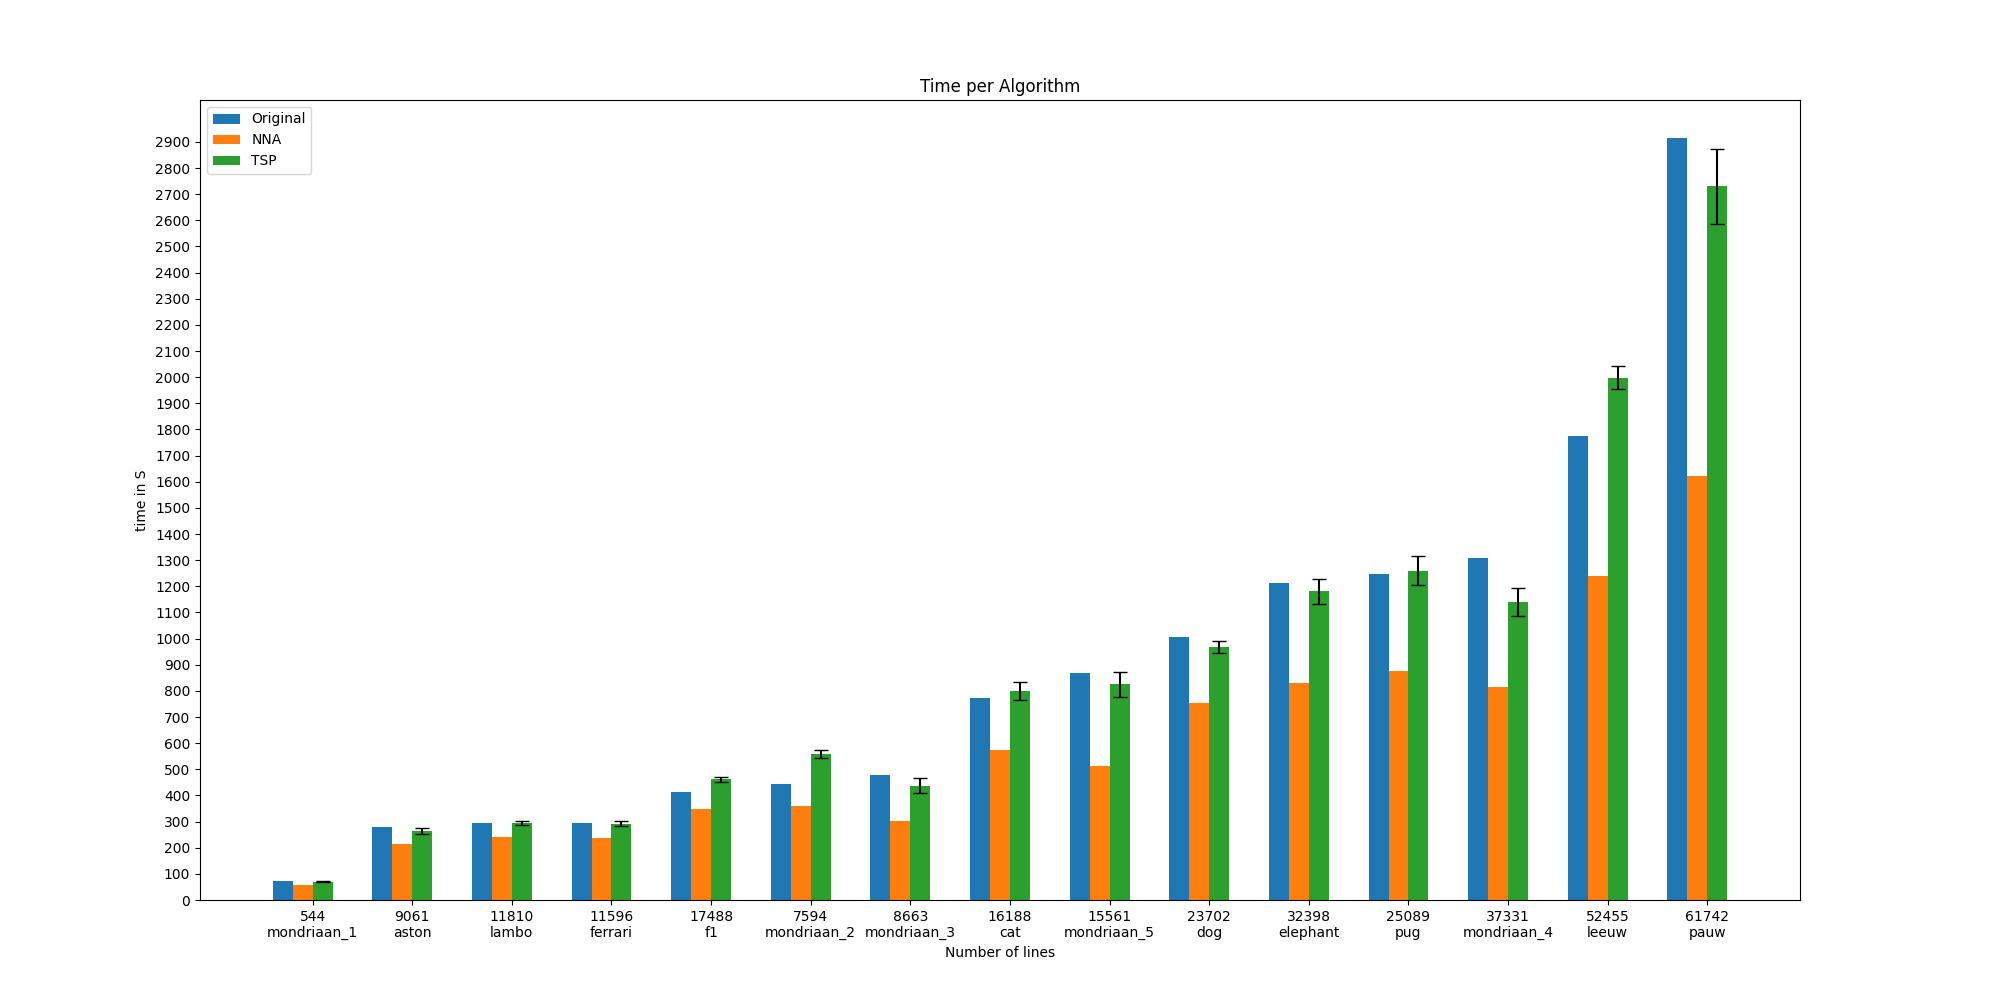
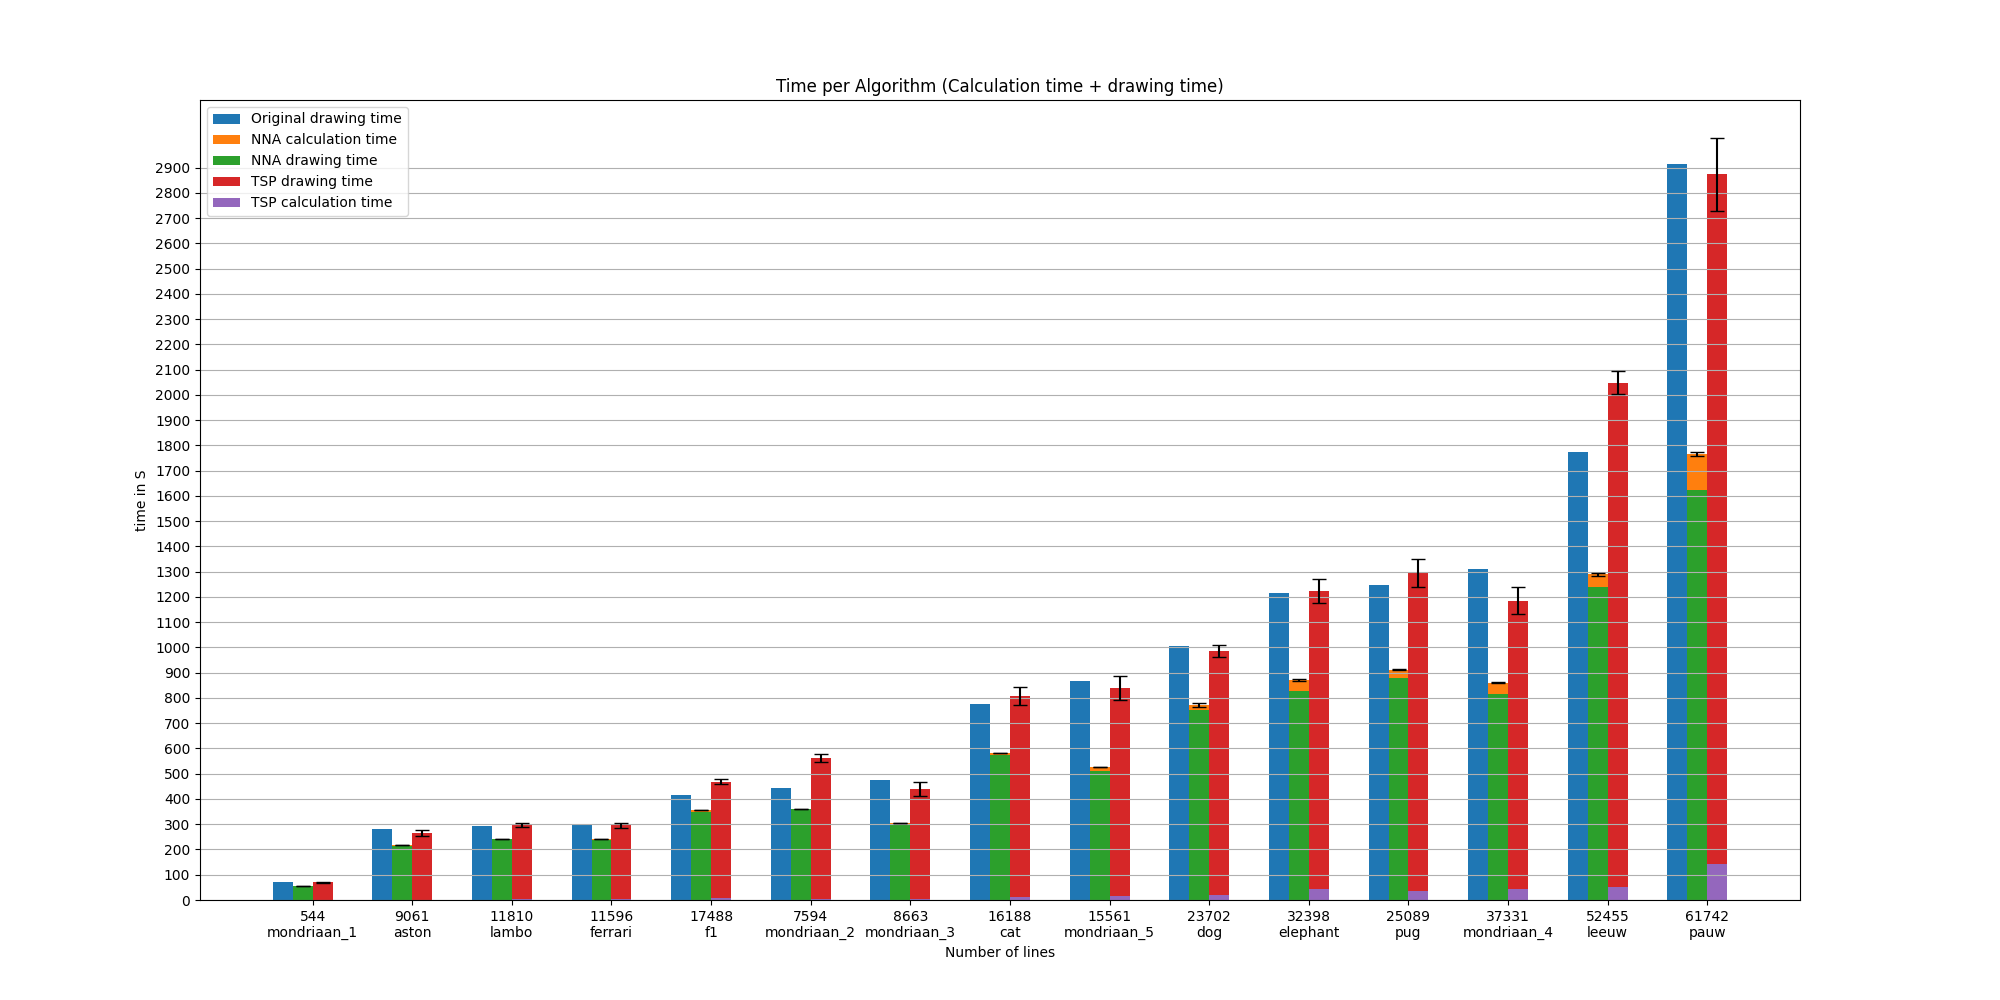
Changed HistogramImprovement_time.png to split bars in processing and drawing time and cleaned up unused variables in PlotResults.py

diff --git a/PlotResults.py b/PlotResults.py
@@ -1,4 +1,5 @@
 import os
+from re import L, U
 from sys import maxsize
 import numpy as np
 import matplotlib.pyplot as plt
@@ -28,7 +29,6 @@ with open("./original/output_ORIGINAL_STEPS.txt", "r") as f:
 
 with open("./original/output_ORIGINAL_TIME.txt", "r") as f:
     for line in f:
-        print(line)
         line = line.split()
         for i in listOfdict:
             if i["file_name"] == line[0]:
@@ -36,7 +36,30 @@ with open("./original/output_ORIGINAL_TIME.txt", "r") as f:
                 if int(line[1])/1000000 > max_time:
                     max_time = int(line[1])/1000000
         
+current_file = ""
+gemiddelde_duur = 0
+tijden = []
 
+with open("./NNA_logging2.txt", "r") as f:
+    for line in f:
+        if line.startswith("Bestand: "):
+            line = line.split()
+            current_file = line[1]
+        elif line.startswith("Gemiddelde_duur: "):
+            line = line.split()
+            gemiddelde_duur = float(line[1])
+        elif line.startswith("Tijdenlijst: "):
+            line = line.split(": ")[1]
+            line = line[1:-2]
+            for tijd in line.split(", "):
+                tijden.append(float(tijd))
+            for i in listOfdict:
+                if i["file_name"] == current_file:
+                    i["GEM_CALCULATION_TIME"] = gemiddelde_duur
+                    i["NNA_CALCULATION_TIME_list"] = tijden
+            current_file = ""
+            gemiddelde_duur = 0
+            tijden = []
 
 # load txt files with gcode
 with open("./NNA/output_NNA_STEPS.txt", "r") as f:
@@ -55,9 +78,14 @@ with open("./NNA/output_NNA_TIME.txt", "r") as f:
         line = line.split()
         for i in listOfdict:
             if i["file_name"] == line[0]:
-                i["NNA_TIME"] = int(line[1])/1000000
-                if int(line[1])/1000000 > max_time:
-                    max_time = int(line[1])/1000000
+                i["NNA_DRAW_TIME"] = int(line[1])/1000000
+                i["NNA_TIME"] = int(line[1])/1000000 + i["GEM_CALCULATION_TIME"]
+                i["NNA_TIME_list"] = []
+                for tijd in i["NNA_CALCULATION_TIME_list"]:
+                     i["NNA_TIME_list"].append(int(line[1])/1000000 + tijd)
+                if max(i["NNA_TIME_list"]) > max_time:
+                    max_time = max(i["NNA_TIME_list"])
+                
 
 # load txt files with gcode
 
@@ -83,14 +111,16 @@ with open("./PYTHON_TSP/output_TSP_PYTHON_TIME.txt", "r") as f:
         for i in listOfdict:
             if i["file_name"] == line[0]:
                 if i.keys().__contains__("TSP_TIME"):
-                    i["TSP_TIME"] = i["TSP_TIME"] + int(line[1])/1000000
-                    i["TSP_TIME_list"].append(int(line[1])/1000000)
+                    i["TSP_TIME"] = i["TSP_TIME"] + int(line[1])/1000000 + i["GEM_CALCULATION_TIME"]
+                    i["TSP_TIME_list"].append(int(line[1])/1000000 + i["GEM_CALCULATION_TIME"])
                 else:
-                    i["TSP_TIME"] = int(line[1])/1000000
-                    i["TSP_TIME_list"] = [int(line[1])/1000000]
+                    i["TSP_TIME"] = int(line[1])/1000000 + i["GEM_CALCULATION_TIME"]
+                    i["TSP_TIME_list"] = [int(line[1])/1000000 + i["GEM_CALCULATION_TIME"]]       
 
 for i in listOfdict:
     try:
+        i["NNA_TIME_stddev"] = np.std(i["NNA_TIME_list"])
+
         i["TSP_STEPS"] = i["TSP_STEPS"] / 20
         i["TSP_TIME"] = i["TSP_TIME"] / 20
         if i["TSP_STEPS"] > max_steps:
@@ -112,24 +142,16 @@ with open("./PYTHON_TSP/objects.txt", "r") as f:
 listOfdict = sorted(listOfdict, key=lambda d: d['Gcode lines'])
 
 original_STEPS = []
-original_TIME = []
 NNA_STEPS = []
-NNA_TIME = []
 TSP_STEPS = []
-TSP_TIME = []
-TSP_TIME_ERROR = []
 TSP_STEPS_ERROR = []
 
 names = []
 for i in listOfdict:
     original_STEPS.append(i["original_STEPS"])
-    # original_TIME.append(i["original_TIME"])
     NNA_STEPS.append(i["NNA_STEPS"])
-    # NNA_TIME.append(i["NNA_TIME"])
     TSP_STEPS.append(i["TSP_STEPS"])
-    # TSP_TIME.append(i["TSP_TIME"])
     TSP_STEPS_ERROR.append(i["TSP_STEPS_stddev"])
-    # TSP_TIME_ERROR.append(i["TSP_TIME_stddev"])
     names.append(str(i["Gcode lines"]) + "\n" + i["file_name"][:-4])
 
 # PLOT
@@ -158,25 +180,17 @@ plt.show()
 listOfdict = sorted(listOfdict, key=lambda d: d['Objects'])
 
 original_STEPS = []
-original_TIME = []
 NNA_STEPS = []
-NNA_TIME = []
 TSP_STEPS = []
-TSP_TIME = []
-TSP_TIME_ERROR = []
 TSP_STEPS_ERROR = []
 
 names = []
 for i in listOfdict:
     original_STEPS.append(i["original_STEPS"])
-    original_TIME.append(i["original_TIME"])
     
     NNA_STEPS.append(i["NNA_STEPS"])
-    NNA_TIME.append(i["NNA_TIME"])
     TSP_STEPS.append(i["TSP_STEPS"])
-    TSP_TIME.append(i["TSP_TIME"])
     TSP_STEPS_ERROR.append(i["TSP_STEPS_stddev"])
-    TSP_TIME_ERROR.append(i["TSP_TIME_stddev"])
     names.append(str(i["Gcode lines"]) + "\n" + i["file_name"][:-4])
 
 
@@ -203,41 +217,43 @@ plt.show()
 
 listOfdict = sorted(listOfdict, key=lambda d: d['original_TIME'])
 
-original_STEPS = []
 original_TIME = []
-NNA_STEPS = []
-NNA_TIME = []
-TSP_STEPS = []
-TSP_TIME = []
-TSP_TIME_ERROR = []
-TSP_STEPS_ERROR = []
+NNA_CALCULATION_TIME = []
+NNA_CALCULATION_TIME_ERROR = []
+NNA_DRAW_TIME = []
+TSP_DRAW_TIME = []
+TSP_CALCULATION_TIME = []
+TSP_DRAW_ERROR = []
+
 
 names = []
+
 for i in listOfdict:
-    original_STEPS.append(i["original_STEPS"])
     original_TIME.append(i["original_TIME"])
-    
-    NNA_STEPS.append(i["NNA_STEPS"])
-    NNA_TIME.append(i["NNA_TIME"])
-    TSP_STEPS.append(i["TSP_STEPS"])
-    TSP_TIME.append(i["TSP_TIME"])
-    TSP_STEPS_ERROR.append(i["TSP_STEPS_stddev"])
-    TSP_TIME_ERROR.append(i["TSP_TIME_stddev"])
+    NNA_CALCULATION_TIME.append(i["GEM_CALCULATION_TIME"] + i["NNA_DRAW_TIME"])
+    NNA_CALCULATION_TIME_ERROR.append(np.std(i["NNA_CALCULATION_TIME_list"]))
+    NNA_DRAW_TIME.append(i["NNA_DRAW_TIME"])
     names.append(str(i["Gcode lines"]) + "\n" + i["file_name"][:-4])
+    TSP_CALCULATION_TIME.append(i["GEM_CALCULATION_TIME"])
+    TSP_DRAW_TIME.append(i["TSP_TIME"])
+    TSP_DRAW_ERROR.append(i["TSP_TIME_stddev"])
 
 # PLOT
 fig = plt.figure(figsize=(20, 10))
 left, bottom, width, height = 0.1, 0.1, 0.8, 0.8
 ax = fig.add_axes([left, bottom, width, height])
+ax.grid(axis = 'y')
 
 width = 0.2
 ticks = np.arange(len(listOfdict))
-ax.bar(ticks, original_TIME, width, label='Original')
-ax.bar(ticks + width, NNA_TIME, width, align="center", label='NNA')
-ax.bar(ticks + width * 2, TSP_TIME, width, label='TSP', yerr=TSP_TIME_ERROR, capsize=5)
+ax.bar(ticks, original_TIME, width, label='Original drawing time')
+ax.bar(ticks + width, NNA_CALCULATION_TIME, width, align="center", label='NNA calculation time', yerr=NNA_CALCULATION_TIME_ERROR, capsize=5)
+ax.bar(ticks + width, NNA_DRAW_TIME, width, label='NNA drawing time')
+ax.bar(ticks + width * 2, TSP_DRAW_TIME, width, label='TSP drawing time', yerr=TSP_DRAW_ERROR, capsize=5)
+ax.bar(ticks + width * 2, TSP_CALCULATION_TIME, width, label='TSP calculation time')
 
 ax.set_ylabel('time in S')
-ax.set_title('Time per Algorithm')
+ax.set_title('Time per Algorithm (Calculation time + drawing time)')
 ax.set_yticks(range(0, int(max_time)+10, 100))
 ax.set_xticks(ticks + 0.30)
 ax.set_xticklabels(names)
